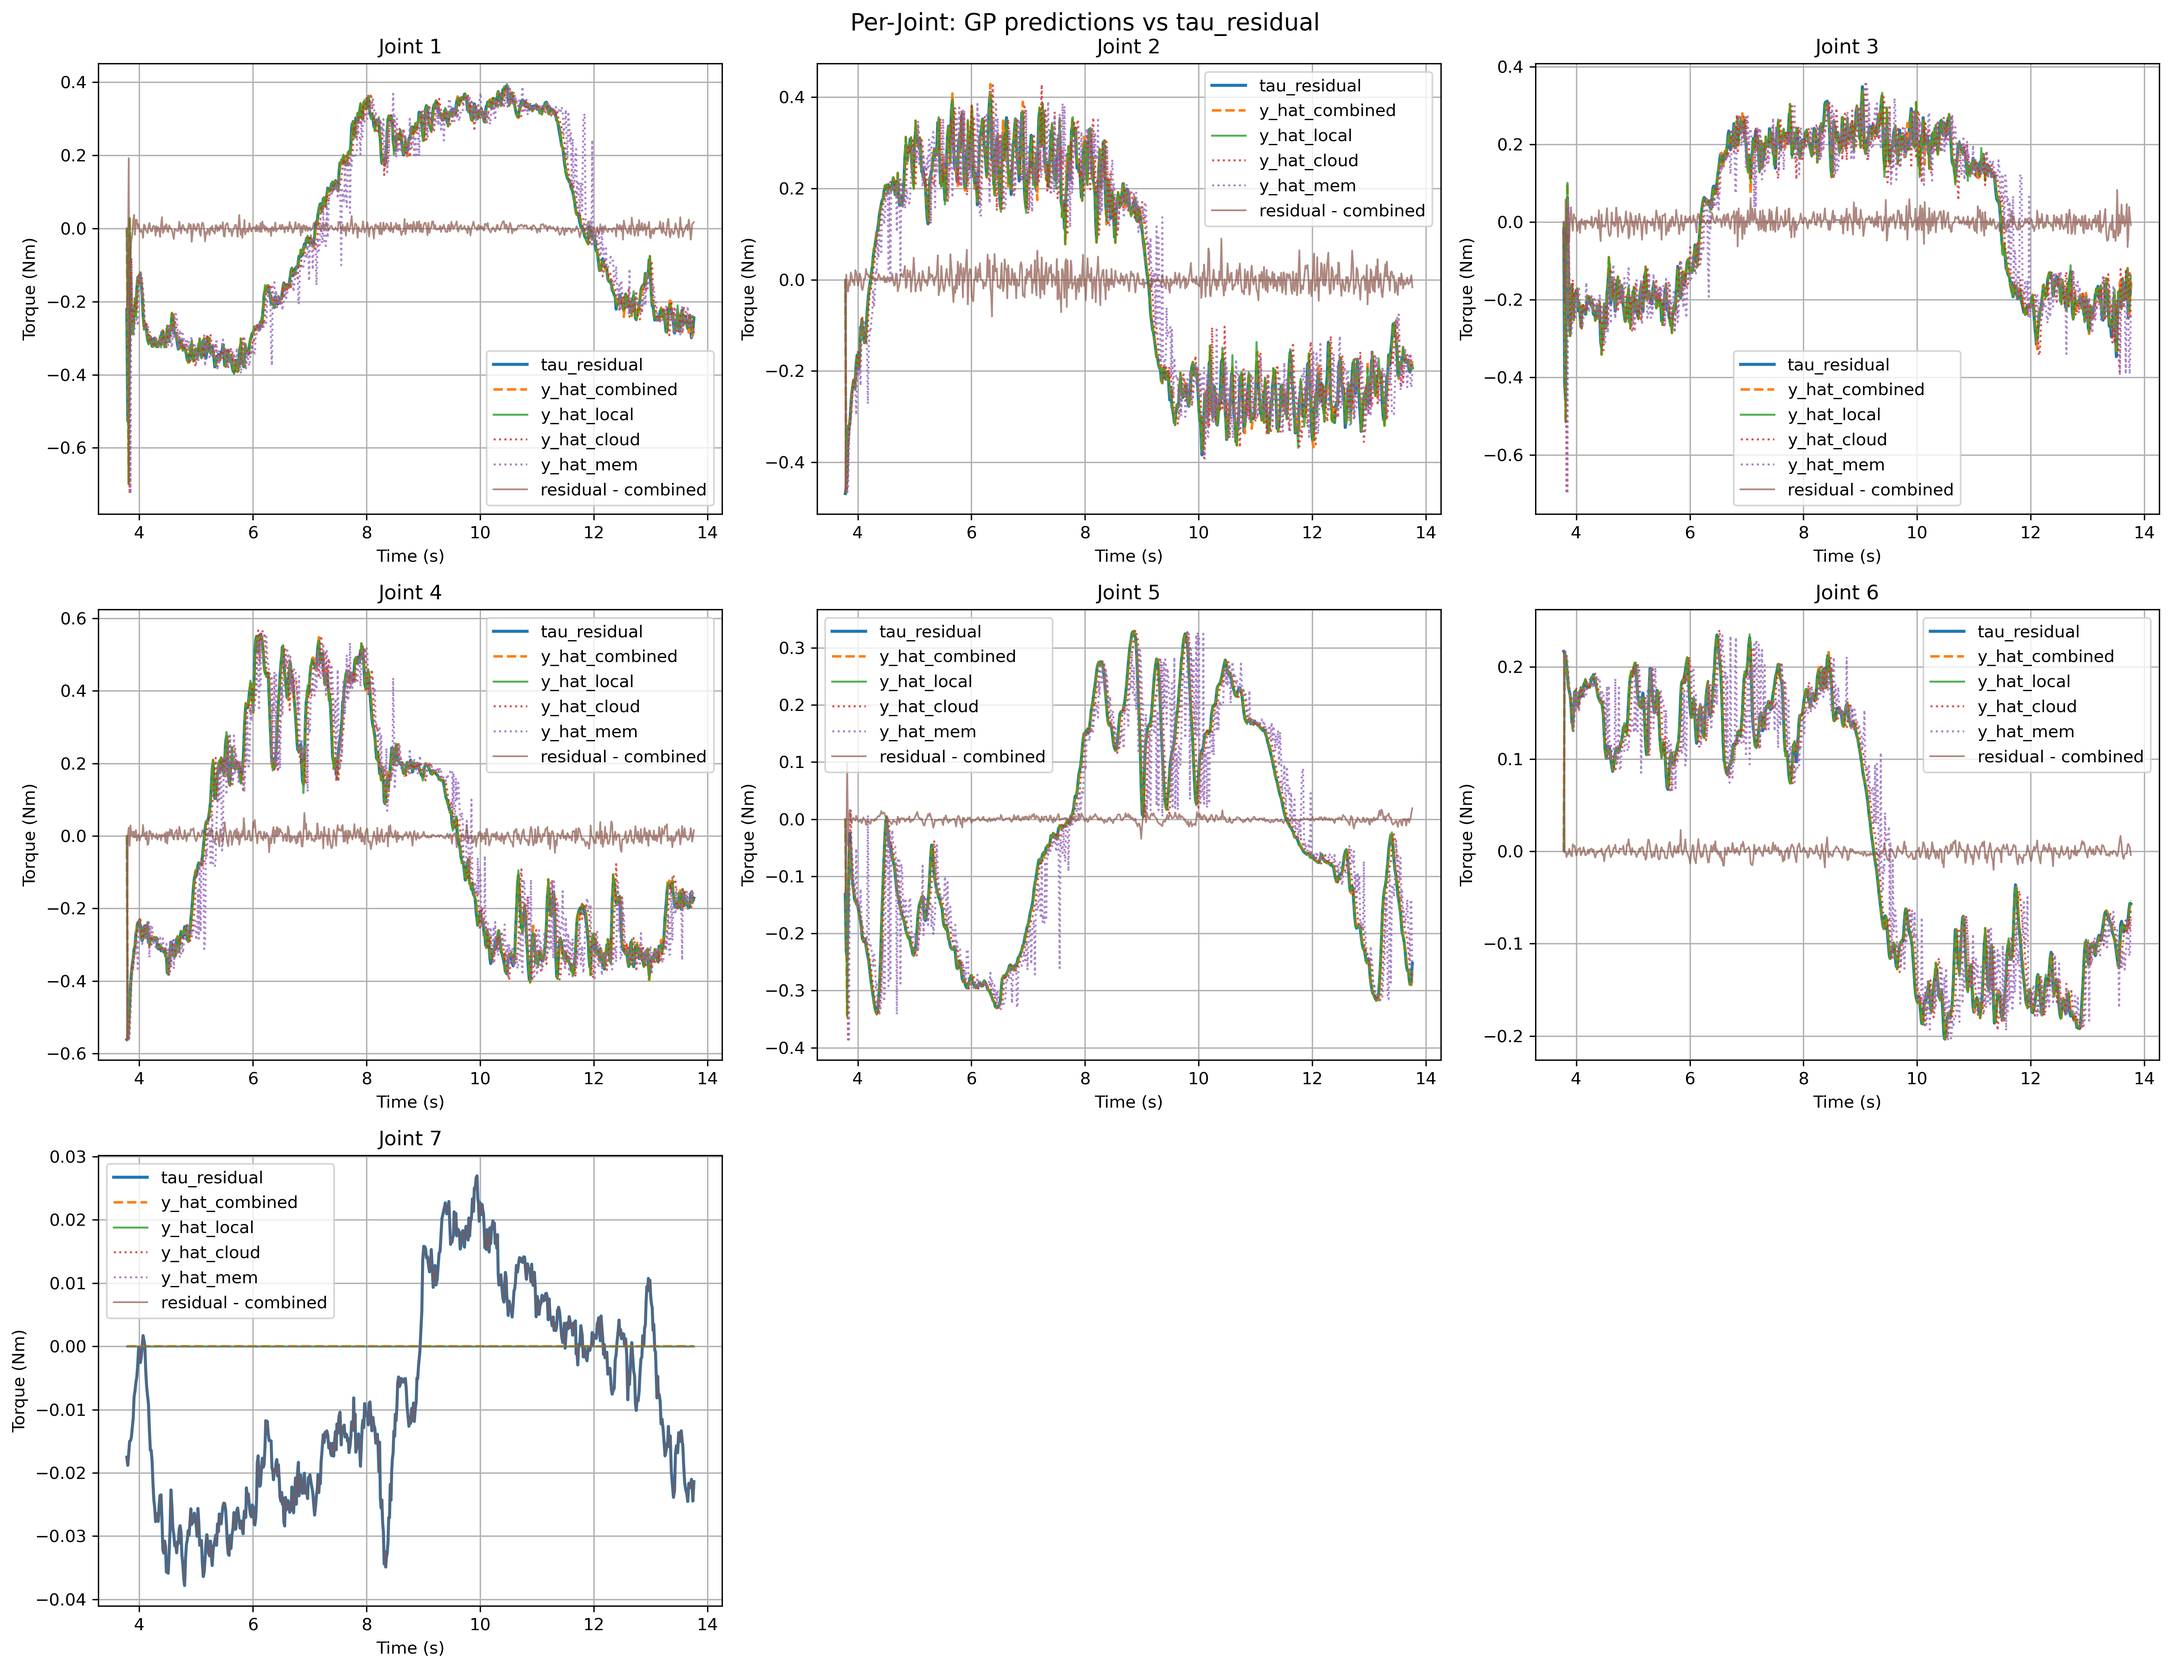
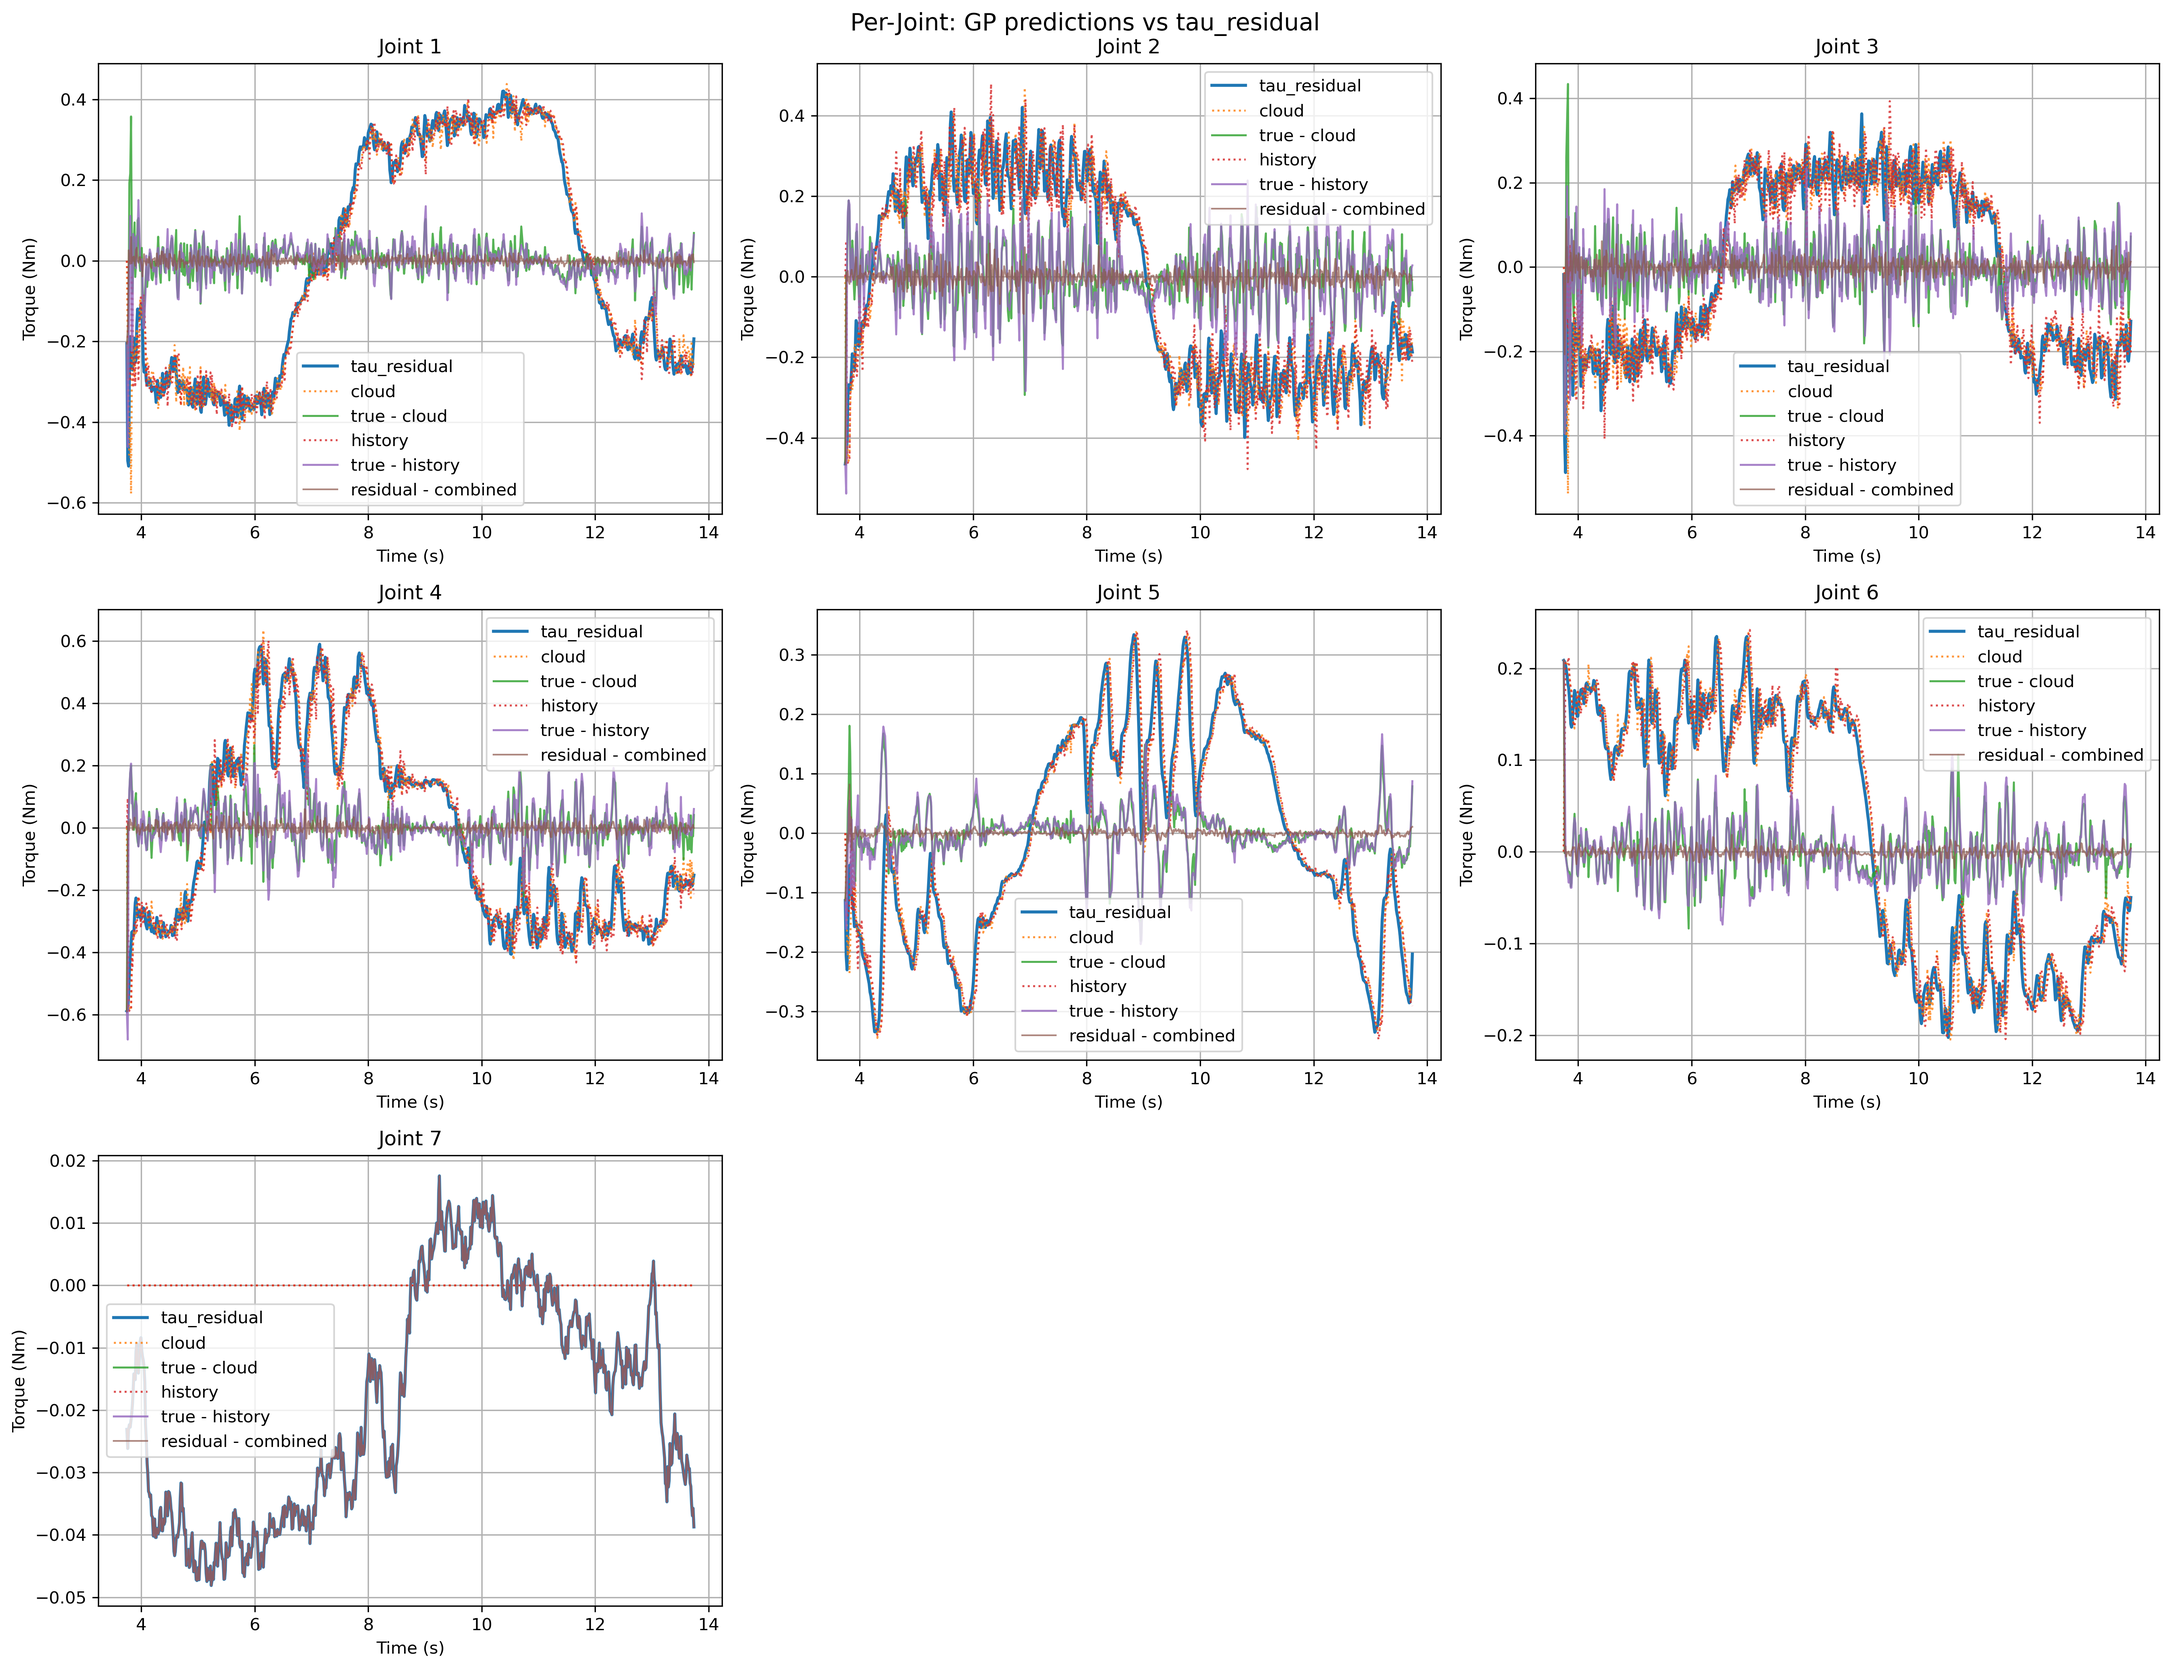
server with time delay finished

diff --git a/new_structure/py_controllers/py_controllers/cartesian_impedance.py b/new_structure/py_controllers/py_controllers/cartesian_impedance.py
@@ -201,7 +201,7 @@ class CartesianImpedanceController(Node):
             '/future_task_space'
         )
         self.future_delay = self.declare_parameter(
-            'future_delay', 0 # 默认 60 ms
+            'future_delay', 0.005 # 默认 60 ms
         ).value
 
         # 存最新一次未来轨迹
@@ -466,12 +466,12 @@ class CartesianImpedanceController(Node):
                         dq,
                         self.ddq_des_joint,
                         self.tau_residual_filtered,
-                    )   
+                    )
+                    self.y_hat_combined = self.y_hat_local   
                     # print(self.gp_counter)
                 # 2) 云端 GP：发异步请求（同一时刻的 q/dq/ddq/残差）
-                # === CLOUD GP 调用 ===
+                # === CLOUD GP 调用 === 
                 if self.gp_client.service_is_ready():
-                    self.gp_counter = 0
                     req = AsyncGPpredict.Request()
 
                     # ---- 当前输入 ----
@@ -485,56 +485,29 @@ class CartesianImpedanceController(Node):
                     #   永远可计算 —— 保证 cloud GP 每次都能收到预测输入
                     # ============================================================
 
-                    # delay = float(self.future_delay)
+                    delay = float(self.future_delay)
 
-                    # q_now  = self.q
-                    # dq_now = dq
-                    # ddq_now = self.ddq_des_joint
+                    q_now  = self.q
+                    dq_now = dq
+                    ddq_now = self.ddq_des_joint
 
-                    # # ---- 常加速度未来预测 ----
-                    # q_future  = q_now + dq_now * delay + 0.5 * ddq_now * delay**2
-                    # dq_future = dq_now + ddq_now * delay
-                    # ============================================================
-                    #   CLOUD GP：使用异步请求得到的未来任务空间轨迹
-                    # ============================================================
+                    # ---- 常加速度未来预测 ----
+                    q_future  = q_now + dq_now * delay + 0.5 * ddq_now * delay**2
+                    dq_future = dq_now + ddq_now * delay
 
-                    if self._latest_future_traj is not None:
-
-                        # 1) 取未来任务空间期望
-                        dx_f  = self._latest_future_traj["dx_des"]
-                        ddx_f = self._latest_future_traj["ddx_des"]
-
-                        # 只用前 5 维（你的控制任务）
-                        dx_f_5  = dx_f[:5]
-                        ddx_f_5 = ddx_f[:5]
-
-                        # 2) 用当前 Jacobian 映射到 joint space
-                        dq_future  = jacobian_pinv @ dx_f_5
-                        ddq_future = jacobian_pinv @ (ddx_f_5 - djacobian @ dq)
-
-                    else:
-                        # ❗ fallback：没有 future traj 时，直接置零 or 用当前 dq
-                        dq_future  = dq.copy()
-                        ddq_future = np.zeros_like(dq)
-
-
-                    # req = AsyncGPpredict.Request()
-
-                    # ---- 当前状态 ----
-                    # req.q = self.q.astype(np.float32).tolist()
-                    # req.dq_des_joint = dq.astype(np.float32).tolist()
-                    # req.ddq_des_joint = self.ddq_des_joint.astype(np.float32).tolist()
-                    # req.tau_residual = self.tau_residual_filtered.astype(np.float32).tolist()
-
-                    # ---- 未来状态（来自轨迹）----
+                    # ---- cloud GP 特征输入 ----
+                    req.q_future = q_future.astype(np.float32).tolist()
                     req.dq_des_joint_future  = dq_future.astype(np.float32).tolist()
-                    req.ddq_des_joint_future = ddq_future.astype(np.float32).tolist()
+                    req.ddq_des_joint_future = ddq_now.astype(np.float32).tolist()
 
-                    # ---- 不使用采样 ----
+                    # ---- 不使用未来采样 ----
                     req.n_future_samples = 0
                     req.dq_future_samples_flat = []
                     req.ddq_future_samples_flat = []
 
+                    # ============================================================
+                    #   发送异步 cloud GP 请求
+                    # ============================================================
                     future = self.gp_client.call_async(req)
                     future.add_done_callback(self._gp_response_callback)
 

diff --git a/new_structure/py_controllers/py_controllers/gp_server.py b/new_structure/py_controllers/py_controllers/gp_server.py
@@ -5,6 +5,7 @@ import numpy as np
 import os, sys, pickle, importlib.util
 from custom_msgs.srv import AsyncGPpredict   # 刚才定义的 srv
 from collections import deque
+import time
 
 class GPServer(Node):
     def __init__(self):
@@ -36,13 +37,13 @@ class GPServer(Node):
         # ===== Memory buffer =====
         self.mem_X = []      # list of (x_dim,)
         self.mem_Y = []      # list of (7,)
-        self.mem_max = 2000  # 最大容量（你可以调）
+        self.mem_max = 10000  # 最大容量（你可以调）
 
     # ============================================================
     # 主 Service 回调
     # ============================================================
     def gp_predict_callback(self, request, response):
-
+        time.sleep(0.005)
         try:
             # -----------------------
             # 当前状态
@@ -55,7 +56,7 @@ class GPServer(Node):
             # -----------------------
             # 未来主状态
             # -----------------------
-            # q_f = np.array(request.q_future, dtype=np.float32)
+            q_f = np.array(request.q_future, dtype=np.float32)
             dq_f  = np.array(request.dq_des_joint_future, dtype=np.float32)
             ddq_f = np.array(request.ddq_des_joint_future, dtype=np.float32)
 
@@ -73,14 +74,14 @@ class GPServer(Node):
             # =====================================================
             # 1) 当前 cloud GP + memory
             # =====================================================
-            y_gp_cur, y_mem_cur, mem_dist_cur  = \
+            y_gp_cur, _, _  = \
                 self._gp_predict_vector(q, dq, ddq, tau, update=True)
 
             # =====================================================
             # 2) 未来 cloud GP（主预测）
             # =====================================================
-            y_gp_fut, _, _ = \
-                self._gp_predict_vector(q, dq_f, ddq_f, None, update=False)
+            y_gp_fut, y_mem_cur, mem_dist_cur = \
+                self._gp_predict_vector(q_f, dq_f, ddq_f, None, update=False)
 
             # =====================================================
             # 3) 多采样 future cloud GP
@@ -102,7 +103,7 @@ class GPServer(Node):
             # 返回（不融合）
             # =====================================================
             response.y_local = y_gp_cur.tolist()
-            response.y_cloud = y_gp_cur.tolist()
+            response.y_cloud = y_gp_fut.tolist()
             response.y_mem   = y_mem_cur.tolist()
             response.mem_dist = float(mem_dist_cur)
 
@@ -147,7 +148,7 @@ class GPServer(Node):
         # ================================
         # 3) memory 查询（⭐ 新增）
         # ================================
-        y_mem, mem_dist = self._query_memory(x_std)
+        y_mem, mem_dist = self._query_memory(x_full)
         if y_mem is None:
             y_mem = np.zeros(7, dtype=np.float32)
             mem_dist = np.inf
@@ -199,7 +200,7 @@ class GPServer(Node):
         # ================================
         # 5) 返回三个值
         # ================================
-        self._store_memory(x_std,y_gp)
+        self._store_memory(x_full, y_gp)
         return y_gp, y_mem, mem_dist
 
 

diff --git a/new_structure/plot_data/plot_data/plot_data.py b/new_structure/plot_data/plot_data/plot_data.py
@@ -313,23 +313,27 @@ def plot_data_from_csv(csv_filename):
             ax.plot(time_history, tr, label='tau_residual', linewidth=1.8)
 
             # 画 combined
-            if YH_comb is not None:
-                yh_c = YH_comb[:, j]
-                ax.plot(time_history, yh_c, '--', linewidth=1.5, label='y_hat_combined')
+            # if YH_comb is not None:
+            #     yh_c = YH_comb[:, j]
+            #     ax.plot(time_history, yh_c, '--', linewidth=1.5, label='y_hat_combined')
 
             # 画 local
-            if YH_local is not None:
-                yh_l = YH_local[:, j]
-                ax.plot(time_history, yh_l, '-', linewidth=1.2, alpha=0.8, label='y_hat_local')
+            # if YH_local is not None:
+            #     yh_l = YH_local[:, j]
+            #     ax.plot(time_history, yh_l, '-', linewidth=1.2, alpha=0.8, label='y_hat_local')
 
             # 画 cloud
             if YH_cloud is not None:
                 yh_cl = YH_cloud[:, j]
-                ax.plot(time_history, yh_cl, ':', linewidth=1.2, alpha=0.8, label='y_hat_cloud')
+                ax.plot(time_history, yh_cl, ':', linewidth=1.2, alpha=0.8, label='cloud')
+                rem = tr - yh_cl
+                ax.plot(time_history, rem, linewidth=1.2, alpha=0.8, label='true - cloud')
 
             if YH_mem is not None:
                 yh_mem = YH_mem[:, j]
-                ax.plot(time_history, yh_mem, ':', linewidth=1.2, alpha=0.8, label='y_hat_mem')
+                ax.plot(time_history, yh_mem, ':', linewidth=1.2, alpha=0.8, label='history')
+                rem = tr - yh_mem
+                ax.plot(time_history, rem, linewidth=1.2, alpha=0.8, label='true - history')
 
             # 画剩余误差：残差 - combined（如果有）
             if YH_comb is not None:
